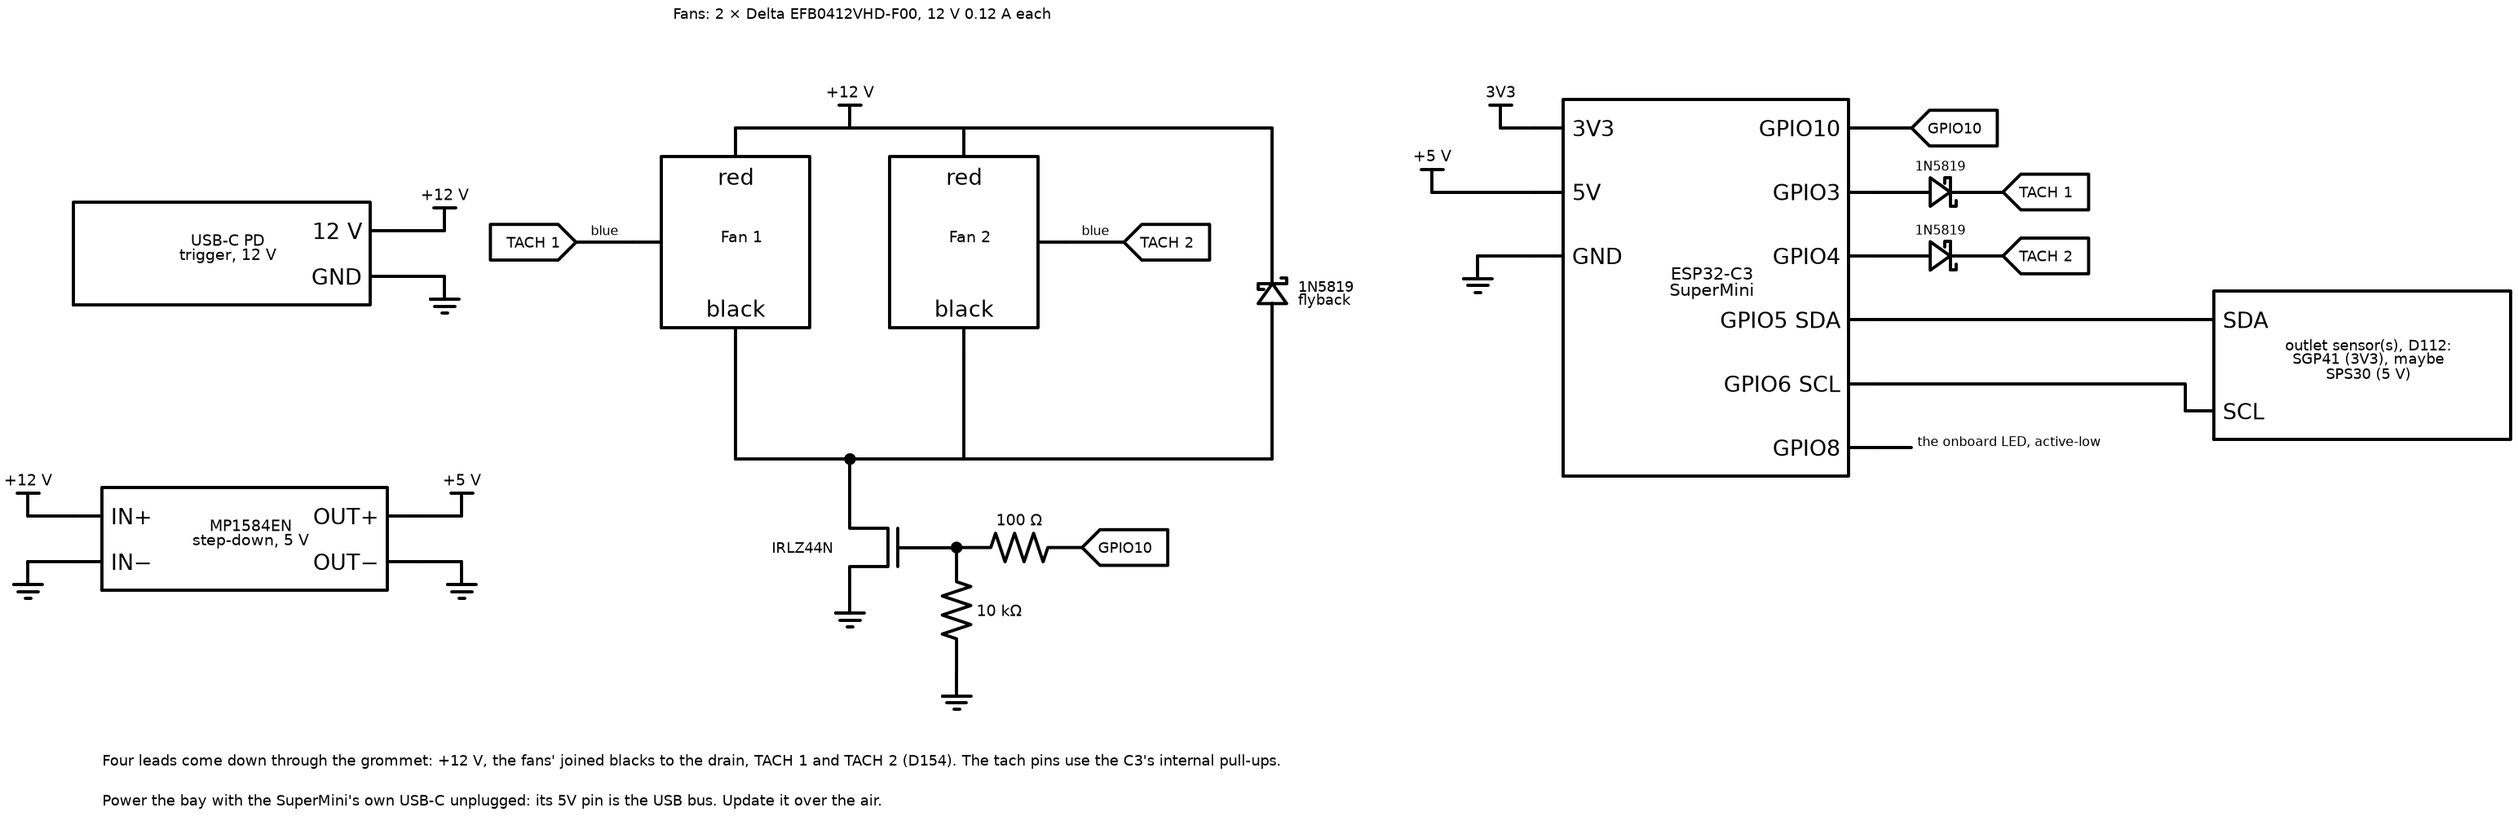
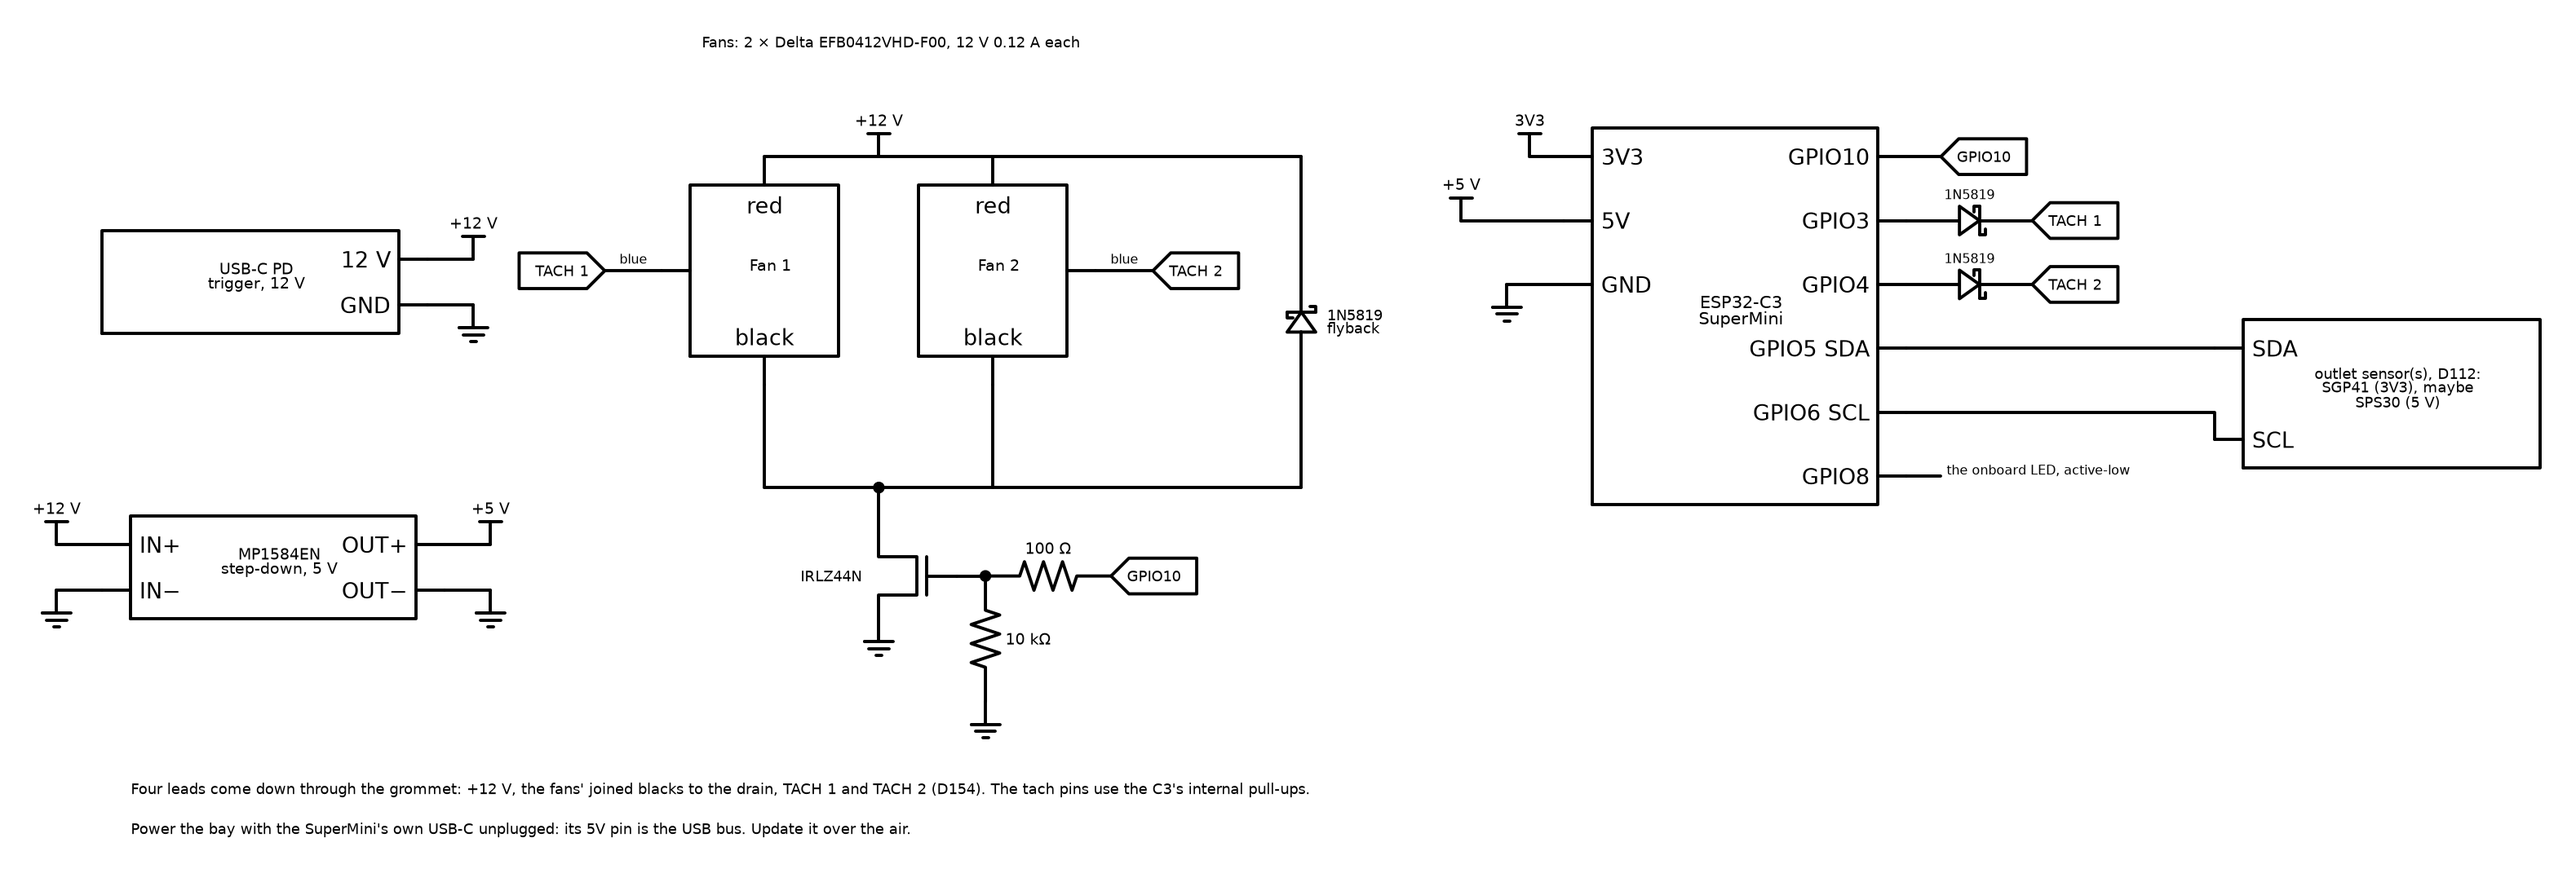
docs(bentobox): the chamber is 139 L; the circuit on a white page
Alon, 9 Oct 2026 (Q157): the enclosure is about a Lack table's size and
6 cm taller - 55 x 55 cm and 46 cm under the top, 139 L, where the page
used the LunchBox's 180 L guess. Every turnover figure follows: the
original's stack 3.4 to 4.0 minutes, the remix as decided 3.2 minutes,
19 times an hour, 90 % of a particle cloud gone in about 7.5 minutes.

The circuit is drawn on a white page, saved opaque: transparent, its
black lines vanished on a dark viewer.

diff --git a/scripts/bentobox-circuit.py b/scripts/bentobox-circuit.py
@@ -31,7 +31,8 @@ def box(text, size, pins, fontsize=10):
 
 
 with schemdraw.Drawing(show=False) as d:
-    d.config(fontsize=10, unit=2.2)
+    # A white page (Alon, 9 Oct 2026): saved transparent, the lines vanish on a dark viewer.
+    d.config(fontsize=10, unit=2.2, bgcolor="white", margin=0.6)
 
     # ---- power in: the USB-C trigger asks the charger for 12 V; the step-down makes the SuperMini's 5 V
     usb = box("USB-C PD\ntrigger, 12 V", (5.2, 1.8), [pin("12 V", "right", "2/2", "v"), pin("GND", "right", "1/2", "g")])
@@ -117,6 +118,6 @@ with schemdraw.Drawing(show=False) as d:
     d += elm.Label().at((-2.2, -8.7)).label(
         "Power the bay with the SuperMini's own USB-C unplugged: its 5V pin is the USB bus. Update it over the air.",
         loc="right", fontsize=9)
-    d.save(str(OUT), dpi=140)
+    d.save(str(OUT), transparent=False, dpi=140)
 
 print("wrote", OUT.relative_to(OUT.parent.parent.parent))

diff --git a/docs/bentobox-scrubber.md b/docs/bentobox-scrubber.md
@@ -486,21 +486,22 @@ measurement. How it is built and every assumption in it: [`sim/bentobox-cfd/`](.
 | The C-MAG takes | 6 Pa | 6 Pa | 20 Pa |
 | The section's sheet takes | | 4 Pa | 3 Pa |
 | Time the air spends in the carbon | 81 ms | 83 ms | 387 ms |
-| The chamber's 180 L through it every | 4.4 min | 4.5 min | 5.2 min |
+| The chamber's 139 L through it every | 3.4 min | 3.4 min | 4.0 min |
 
 - **The HEPA cartridge sets the flow.** It takes about nine tenths of what the fans can give. Its paper sees
   only the 78 × 37 mm opening of the original's ledge (the remix's is 90 × 37, for a bigger piece of paper;
   these numbers are for the original), where the LunchBox's paper sees 70 cm², more than twice as
   much. So the BentoBox moves about half the LunchBox's air (1.3 to 1.5 L/s with its leaks sealed), and
-  turns the chamber over every 4.5 minutes where the LunchBox does it every 2 to 2.5. Without the
+  turns the chamber over every 3.4 minutes where the LunchBox does it every 1.5 to 1.8. Without the
   19/15 for its shallower pleats - the very same resistance per face as the LunchBox's paper - the lumped
   model gives 0.79 L/s with the section, and the simulation would come out near 0.8: three fifths of the
   LunchBox's air rather than half.
 - **The remix as decided moves 0.72 L/s** by the lumped model (18 pleats, the 45 mm bed, the section; see *The
-  carbon*): 2.6 m³ an hour, the chamber's 180 L every 4.2 minutes, 14 times an hour. The 180 L is the
-  LunchBox's estimate for a Lack enclosure, not measured. With the chamber's air well mixed and the paper
-  stopping what passes, a cloud of particles halves every 2.9 minutes: 90 % gone in about 10 minutes, 99 % in
-  about 20. Each time scales with the chamber's volume, and the flow with the paper's grade, which is not known.
+  carbon*): 2.6 m³ an hour, the chamber's 139 L every 3.2 minutes, 19 times an hour. The chamber is a Lack
+  table's 55 × 55 cm and 46 cm tall, the 40 cm under the table's top and 6 cm more (Alon, 9 Oct 2026: Q157); the
+  legs and the printer take a little of it. With the chamber's air well mixed and the paper stopping what passes,
+  a cloud of particles halves every 2.2 minutes: 90 % gone in about 7.5 minutes, 99 % in about 15. Each time
+  scales with the chamber's volume, and the flow with the paper's grade, which is not known.
 - **The section costs little**: 1.5 % of the flow in the simulation, 4 % by the lumped model. The two
   differ by about as much as the meshes of two cases do. Its sheet is evenly loaded: 0.15 m/s on average,
   nowhere below 0.12, a little less over the grid's two long ribs (on the 1 mm mesh, below).
